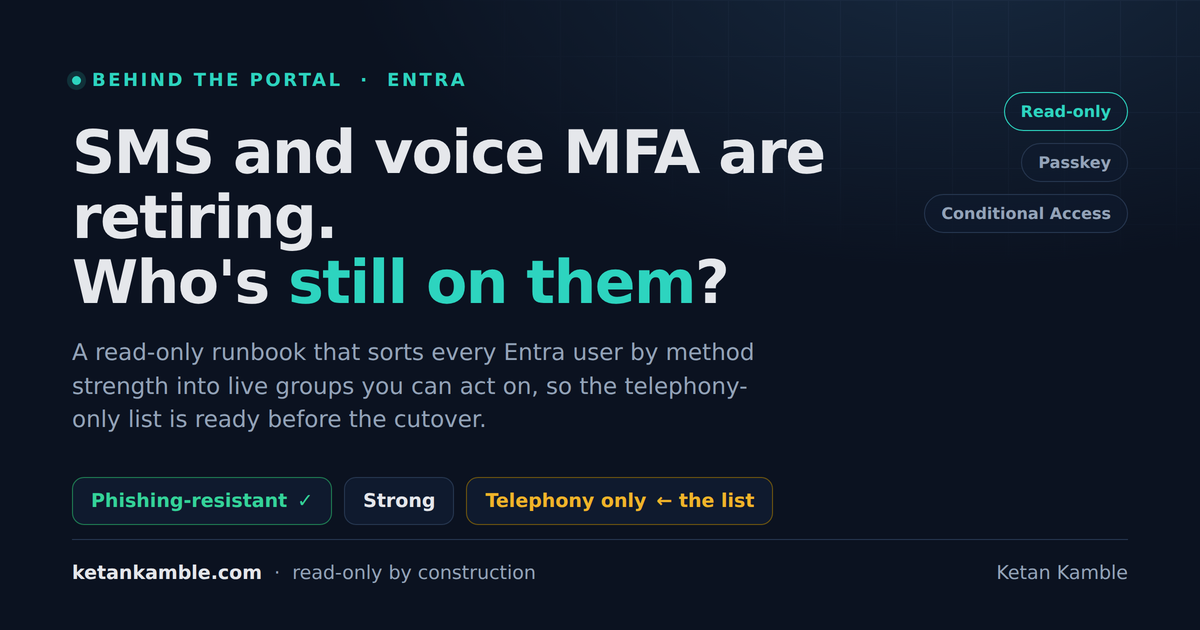
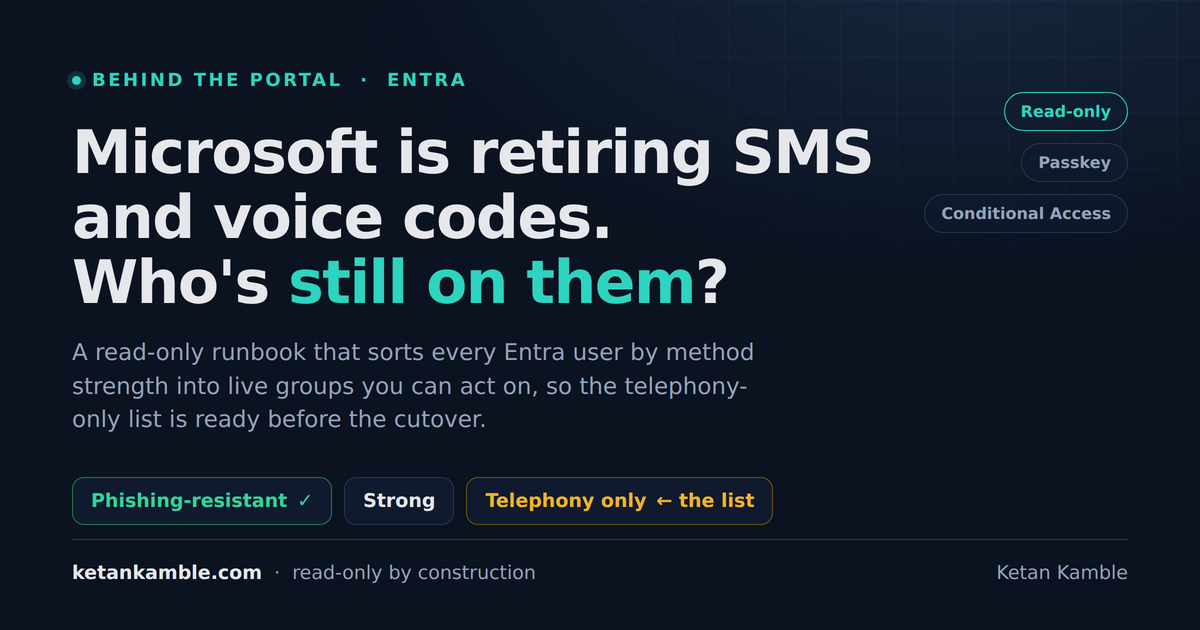
Add files via upload

Changed region(s): [[0.0617, 0.181, 0.74, 0.3921]]

diff --git a/docs/javascripts/lightbox.js b/docs/javascripts/lightbox.js
@@ -23,7 +23,15 @@
     closeBtn.setAttribute('aria-label', 'Close image preview');
     closeBtn.innerHTML = '&times;';
 
+    // Animated hooks are iframes, not images. The overlay carries a second zoom
+    // target, an iframe, so a hook can open at full size the same way an image does.
+    var bigFrame = document.createElement('iframe');
+    bigFrame.setAttribute('title', 'Zoomed preview');
+    bigFrame.setAttribute('scrolling', 'no');
+    bigFrame.style.cssText = 'display:none;width:min(94vw,1200px);aspect-ratio:1200/470;border:0;border-radius:16px;background:#0B1220;box-shadow:0 20px 60px rgba(0,0,0,.5)';
+
     overlay.appendChild(big);
+    overlay.appendChild(bigFrame);
     overlay.appendChild(closeBtn);
     document.body.appendChild(overlay);
 
@@ -31,8 +39,21 @@
 
     function open(src, alt, trigger) {
       lastFocus = trigger || document.activeElement;
+      bigFrame.style.display = 'none';
+      bigFrame.src = '';
+      big.style.display = '';
       big.src = src;
       big.alt = alt || '';
+      overlay.classList.add('open');
+      overlay.setAttribute('aria-hidden', 'false');
+      closeBtn.focus();
+    }
+    function openFrame(src, trigger) {
+      lastFocus = trigger || document.activeElement;
+      big.style.display = 'none';
+      big.src = '';
+      bigFrame.style.display = 'block';
+      bigFrame.src = src;
       overlay.classList.add('open');
       overlay.setAttribute('aria-hidden', 'false');
       closeBtn.focus();
@@ -41,11 +62,12 @@
       overlay.classList.remove('open');
       overlay.setAttribute('aria-hidden', 'true');
       big.src = '';
+      bigFrame.src = '';
       if (lastFocus && lastFocus.focus) lastFocus.focus();
     }
 
     overlay.addEventListener('click', function (e) {
-      if (e.target !== big) close(); // click backdrop or the × closes; clicking the image itself doesn't
+      if (e.target !== big && e.target !== bigFrame) close(); // backdrop or × closes; the media itself doesn't
     });
     closeBtn.addEventListener('click', close);
     document.addEventListener('keydown', function (e) {
@@ -99,6 +121,26 @@
         return cached;
       }
       function trigger() { open(toURL(), 'Diagram, full size', wrap); }
+      wrap.addEventListener('click', trigger);
+      wrap.addEventListener('keydown', function (e) {
+        if (e.key === 'Enter' || e.key === ' ') { e.preventDefault(); trigger(); }
+      });
+    });
+
+    // Animated hooks are embedded as iframes inside .hook-embed. The iframe would
+    // swallow the click, so pointer events are turned off on it and the wrapper
+    // itself opens the same hook full-size in the overlay.
+    var hooks = document.querySelectorAll('.md-content .hook-embed');
+    Array.prototype.forEach.call(hooks, function (wrap) {
+      var fr = wrap.querySelector('iframe');
+      if (!fr || wrap.getAttribute('data-zoomable') === '1') return;
+      wrap.setAttribute('data-zoomable', '1');
+      fr.style.pointerEvents = 'none';
+      wrap.style.cursor = 'zoom-in';
+      wrap.setAttribute('tabindex', '0');
+      wrap.setAttribute('role', 'button');
+      wrap.setAttribute('aria-label', 'Zoom to full size');
+      function trigger() { openFrame(fr.src, wrap); }
       wrap.addEventListener('click', trigger);
       wrap.addEventListener('keydown', function (e) {
         if (e.key === 'Enter' || e.key === ' ') { e.preventDefault(); trigger(); }

diff --git a/docs/blog/posts/auth-method-readiness-groups.md b/docs/blog/posts/auth-method-readiness-groups.md
@@ -18,26 +18,26 @@ tags:
   - Managed Identity
 ---
 
-# Before SMS and voice MFA retire, know who is passkey-ready, as a group
+# Before Microsoft-provided SMS and voice retire, know who is passkey-ready, as a group
 
-![Cover: Microsoft retiring SMS and voice MFA and defaulting to passkeys, and a read-only runbook that sorts every Entra user into method-strength groups so the telephony-only list is ready to act on](../../assets/img/banners/auth-method-readiness-groups.webp){ .post-cover width="1200" height="630" fetchpriority=high }
+![Cover: Microsoft retiring its own SMS and voice delivery and defaulting to passkeys, and a read-only runbook that sorts every Entra user into method-strength groups so the telephony-only list is ready to act on](../../assets/img/banners/auth-method-readiness-groups.webp){ .post-cover width="1200" height="630" fetchpriority=high }
 
-Microsoft has put a date on something a lot of us have been meaning to get to. Passkeys are becoming the default, and Microsoft-provided SMS and voice are being retired as authentication methods. So the question stops being "should we move people off text-message codes" and becomes "who is still on one, and can we see that list today."
+Microsoft has put a date on something a lot of us have been meaning to get to. Passkeys are becoming the default, and Microsoft is retiring its own delivery of the SMS and voice codes, so Microsoft stops sending the text and the phone call. So the question stops being "should we move people off text-message codes" and becomes "who is still on one, and can we see that list today."
 
 We needed an honest answer to that, as a thing we could act on and not just a number in a dashboard. Not just a count of how many people are on phone-based MFA, but the actual users, split by how strong their method really is, kept current, and sitting in groups we can point a Conditional Access policy or a comms campaign at. This is the read-only runbook we built to produce that, and the way it keeps the groups in sync without ever being allowed to break anyone's sign-in.
 
 <!-- more -->
 
 <div class="hook-embed" markdown="0">
-<iframe scrolling="no" src="/assets/hooks/auth-method-readiness-groups.html" title="Before and after: authentication method registration data sitting flat, then sorted into live Entra groups per method strength, with the telephony-only group ready to target before SMS MFA retires" loading="lazy" style="display:block;width:100%;aspect-ratio:1200/470;border:0;border-radius:16px;box-shadow:0 10px 30px rgba(0,0,0,.35)"></iframe>
+<iframe scrolling="no" src="/assets/hooks/auth-method-readiness-groups.html" title="Before and after: authentication method registration data sitting flat, then sorted into live Entra groups per method strength, with the telephony-only group ready to target before Microsoft-provided SMS and voice retire" loading="lazy" style="display:block;width:100%;aspect-ratio:1200/470;border:0;border-radius:16px;box-shadow:0 10px 30px rgba(0,0,0,.35)"></iframe>
 </div>
 
 !!! success "The payoff"
-    Microsoft is making passkeys the default and retiring Microsoft-provided SMS and voice MFA on 1 February 2027 for most users. This is a read-only runbook that reads the Entra authentication-method registration report, sorts every in-scope user into one group by their strongest method (phishing-resistant, strong, telephony-only, nothing), and keeps those assigned groups in sync. It defaults to a dry run, writes a CSV of every change, and has four gates before it removes anyone. The telephony-only group is the one that matters right now: it is your migration list, ready to target.
+    Microsoft is making passkeys the default and retiring its own SMS and voice delivery on 1 February 2027 for most users. This is a read-only runbook that reads the Entra authentication-method registration report, sorts every in-scope user into one group by their strongest method (phishing-resistant, strong, telephony-only, nothing), and keeps those assigned groups in sync. It defaults to a dry run, writes a CSV of every change, and has four gates before it removes anyone. The telephony-only group is the one that matters right now: it is your migration list, ready to target.
 
 ## The deadline that makes this worth doing now
 
-Microsoft announced in message center post MC1426371 that it is turning passkeys on by default and retiring Microsoft-provided SMS and voice as authentication methods. The reasoning they give is blunt: text-message and phone-call codes do not hold up against modern phishing and AI-assisted attacks. The dates are set. Passkeys become the default on 1 September 2026, and Microsoft-provided SMS and voice are retired on 1 February 2027 for everyone except global administrators and external users, who get until 1 July 2027. That split is the reason the runbook keeps members and internal guests in scope and drops external guests, their deadline is the later one.
+Microsoft announced in message center post MC1426371 that it is turning passkeys on by default and retiring Microsoft-provided SMS and voice delivery. The reasoning they give is blunt: text-message and phone-call codes do not hold up against modern phishing and AI-assisted attacks. To be exact about what goes away: it is Microsoft's own delivery of the codes, not telephony as a method in the abstract. The text and the call that Microsoft sends stop, and unless you have wired up an external telephony provider, anyone whose only method is Microsoft-provided SMS or voice loses their way in. That is the population this runbook finds. The dates are set. Passkeys become the default on 1 September 2026, and Microsoft-provided SMS and voice are retired on 1 February 2027 for everyone except global administrators and external users, who get until 1 July 2027. That split is the reason the runbook keeps members and internal guests in scope and drops external guests, their deadline is the later one.
 
 The practical problem is that you can't move people you can't see. "Turn off SMS" is easy. Knowing which 600 or 6,000 accounts will lose their only working method the day you do it is the hard part, and that's a reporting problem before it's a policy problem.
 
@@ -47,7 +47,7 @@ A flat count isn't enough. For every active user we want their strongest registe
 
 - phishing-resistant: a passkey, FIDO2 key, Windows Hello for Business, a platform credential. These people are already where Microsoft wants everyone.
 - strong but not phishing-resistant: Authenticator push or passwordless, a software or hardware one-time passcode, a third-party MFA like Duo. Fine today, not the end state.
-- telephony-only: the only thing registered is a phone number, SMS or voice. This is the group that breaks when the method retires.
+- telephony-only: the only thing registered is a phone number, SMS or voice. This is the group that breaks when Microsoft-provided delivery stops.
 - nothing usable: no method, or only self-service password reset answers, which aren't MFA.
 
 Sort every person into exactly one of those by their strongest method and the telephony-only bucket becomes your migration list. That is the whole point.
@@ -60,7 +60,7 @@ The thing that reads your entire directory and everyone's registered methods is 
 
 The natural instinct is a dynamic group: "members where their strongest method is a phone number." You can't write that rule. Dynamic membership rules run on directory attributes on the user object, and a person's registered authentication methods aren't attributes on the user, they come from a separate report. There's no dynamic rule that can read registration state, the same way there wasn't a dynamic rule for "has this app installed" in the Intune world.
 
-So these are assigned groups, created once by hand, and kept in sync by the runbook off the report. From where you sit the result behaves like a dynamic group, the membership updates itself on every run, it just gets driven by the runbook instead of a membership rule, because no rule can read registration state. This is the operational-groups idea, a group you maintain by automation because a dynamic rule cannot express what you need. Nathan McNulty has shared scripts and writing on operational groups in Entra, and his GitHub is worth a read for the broader pattern. This runbook was built on our own for our own requirement, I did not take code or logic from there, but credit to him for putting the idea out in the open. The runbook here never creates, renames or deletes a group. It only ever adds and removes members, and only to groups you made first.
+So these are assigned groups, created once by hand, and kept in sync by the runbook off the report. From where you sit the result behaves like a dynamic group, the membership updates itself on every run, it just gets driven by the runbook instead of a membership rule, because no rule can read registration state. This is the operational-groups idea, a group you maintain by automation because a dynamic rule cannot express what you need. This runbook was written on our own for our own requirement. The runbook here never creates, renames or deletes a group. It only ever adds and removes members, and only to groups you made first.
 
 One setup choice worth knowing: you can nest the phishing-resistant and strong groups inside a parent "System Preferred MFA" group and point the system-preferred MFA policy at the parent, so the two already-fine groups drive that policy together. The nesting is a one-time manual step. The runbook does not touch the parent, it just keeps the two leaf groups current underneath it.
 
@@ -150,14 +150,14 @@ NoRegistrationData   12       0         Auth - No Registration Data Users
 Review               6        0         Auth - Manual Review Users
 ```
 
-That TelephonyOnly row is the headline. 430 people, 22 of them non-human accounts that get excluded, so 408 real users to move before the method retires. The run ends by saying exactly that in a line you can drop into a status update, and it tracks the number down over time as the campaign runs.
+That TelephonyOnly row is the headline. 430 people, 22 of them non-human accounts that get excluded, so 408 real users to move before Microsoft-provided delivery stops. The run ends by saying exactly that in a line you can drop into a status update, and it tracks the number down over time as the campaign runs.
 
 !!! note "Coming next: the Power BI report"
     These CSVs are the raw material. A detailed Power BI report that sits on top of them is coming soon, so you can watch the telephony-only number trend down week over week and slice it by department and account type. This post is the groups and the runbook that keep them current, the report is the next piece.
 
 ## The telephony-only list is the one that matters right now
 
-Every other group is useful, but the telephony-only group is the one with a clock on it. Point a Conditional Access report-only policy at it to see who would be affected. Hand it to the service desk as the call list. Drive a registration campaign at it and watch it shrink run over run. When SMS and voice retire, the people in that group are exactly the ones who would have lost access, and you dealt with them on your schedule instead of on the cutover morning.
+Every other group is useful, but the telephony-only group is the one with a clock on it. Point a Conditional Access report-only policy at it to see who would be affected. Hand it to the service desk as the call list. Drive a registration campaign at it and watch it shrink run over run. When Microsoft-provided SMS and voice stop, the people in that group are exactly the ones who would have lost access, and you dealt with them on your schedule instead of on the cutover morning.
 
 ## What each group is for
 
@@ -184,7 +184,6 @@ This is the same move as everything else here. The part that reads your whole di
 - **MC1426371, Passkeys by default and retirement of Microsoft-provided SMS and voice** (Microsoft Entra message center): [mc.merill.net/message/MC1426371](https://mc.merill.net/message/MC1426371)
 - **Passkeys by default and retirement of Microsoft-provided SMS and voice authentication** (Microsoft Learn, the authoritative dates): [learn.microsoft.com](https://learn.microsoft.com/en-us/entra/identity/authentication/concept-sms-voice-retirement)
 - **userRegistrationDetails resource type** (Microsoft Graph, the report this reads): [learn.microsoft.com](https://learn.microsoft.com/en-us/graph/api/resources/userregistrationdetails)
-- **Nathan McNulty on GitHub** (scripts and writing on operational groups in Entra, independent prior art on the pattern, this runbook took no code from it): [github.com/nathanmcnulty/nathanmcnulty](https://github.com/nathanmcnulty/nathanmcnulty)
 - **Operational groups in Entra** (entra.news, related reading on maintaining assigned groups by automation): [entra.news/p/operational-groups-in-entra-with](https://entra.news/p/operational-groups-in-entra-with)
 
 <script type="application/ld+json">
@@ -205,7 +204,7 @@ This is the same move as everything else here. The part that reads your whole di
       "name": "Is Microsoft really retiring SMS and voice MFA?",
       "acceptedAnswer": {
         "@type": "Answer",
-        "text": "Yes. In message center post MC1426371 Microsoft announced passkeys becoming the default and the retirement of Microsoft-provided SMS and voice as authentication methods, with a timeline running into 2027. The authoritative dates are on Microsoft Learn under the SMS and voice retirement concept page."
+        "text": "Microsoft is retiring its own delivery of SMS and voice codes, announced in message center post MC1426371 alongside passkeys becoming the default. Telephony is not deleted as a method in the abstract, but the text messages and calls Microsoft sends stop, so anyone whose only method is Microsoft-provided SMS or voice loses access unless an external telephony provider is wired up. The timeline runs into 2027 and the authoritative dates are on Microsoft Learn under the SMS and voice retirement concept page."
       }
     },
     {
@@ -221,7 +220,7 @@ This is the same move as everything else here. The part that reads your whole di
       "name": "What counts as phishing-resistant versus strong?",
       "acceptedAnswer": {
         "@type": "Answer",
-        "text": "Phishing-resistant means passkeys, FIDO2 security keys, Windows Hello for Business and platform credentials. Strong-but-not-phishing-resistant means Authenticator push or passwordless, software or hardware one-time passcodes, and third-party MFA such as Duo. Telephony means SMS or voice only, which is the method being retired."
+        "text": "Phishing-resistant means passkeys, FIDO2 security keys, Windows Hello for Business and platform credentials. Strong-but-not-phishing-resistant means Authenticator push or passwordless, software or hardware one-time passcodes, and third-party MFA such as Duo. Telephony means SMS or voice only, which is the delivery Microsoft is retiring."
       }
     }
   ]

diff --git a/docs/scripts/auth-method-readiness-groups.md b/docs/scripts/auth-method-readiness-groups.md
@@ -1,6 +1,6 @@
 ---
 title: Auth Method Readiness Groups
-description: A read-only Entra runbook that sorts users by their strongest auth method and keeps assigned readiness groups in sync, before SMS and voice MFA retire.
+description: A read-only Entra runbook that sorts users by strongest auth method and keeps the readiness groups in sync, before Microsoft-provided SMS and voice retire.
 tags:
   - Entra ID
   - Microsoft Graph
@@ -37,7 +37,7 @@ Create the six readiness groups plus the exclusion group by hand first (the runb
 set the storage config at the top, then run with `-DryRun $true` and read the proposed changes before you
 ever let it write.
 
-??? example "View Report-AuthMethodReadiness.ps1"
+???+ example "The complete runbook: Report-AuthMethodReadiness.ps1"
     ```powershell
     --8<-- "assets/scripts/Report-AuthMethodReadiness.ps1"
     ```
